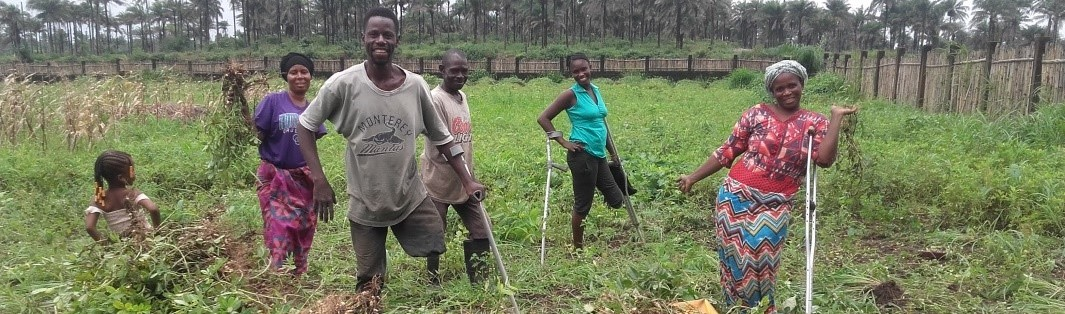
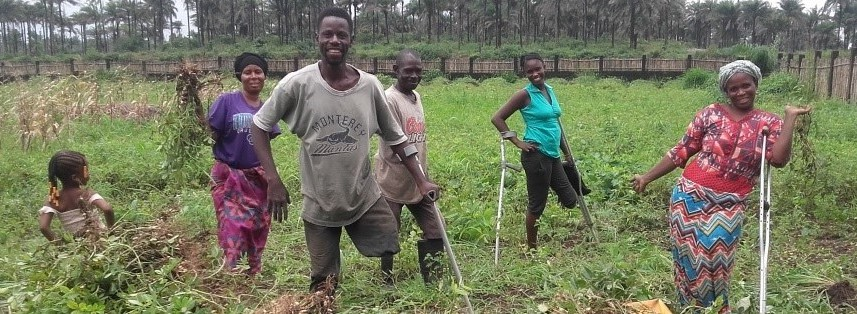
checkpoint

diff --git a/_pages/principles.html b/_pages/principles.html
@@ -8,10 +8,13 @@ top-img: /assets/images/top.jpg
 <div class="chapters">
 	<div class="sections">
 		<div class="title">
-		
+
 		</div>
 		<div class="section-paragraph">
-			Farming on Crutches seeks to farm in tune with nature, without chemicals and as far as possible without debt - based on the principles of agro-ecology and permaculture.  The compelling benefits from training and supporting the changemakers in these practices focused on community localization and revitalization are that;
+			Farming on Crutches seeks to farm in tune with nature, without chemicals and as far as possible without debt
+			- based on the principles of agro-ecology and permaculture. The compelling benefits from training and
+			supporting the changemakers in these practices focused on community localization and revitalization are
+			that;
 			<ul>
 				<li>It enhances food security and human health whilst reducing financial risks</li>
 				<li>It eliminates the need for synthetic fertilisers and plant protection chemicals</li>
@@ -32,7 +35,8 @@ top-img: /assets/images/top.jpg
 			<img src="/assets/images/permaculture.jpg" width="100%" height="100%">
 		</div>
 		<div class="section-paragraph">
-			The principles underlying Farming on Crutches are the same as those espoused by <a href="https://ari.ac.jp/en/curriculum/">ARI</a> – namely to build an
+			The principles underlying Farming on Crutches are the same as those espoused by <a
+				href="https://ari.ac.jp/en/curriculum/">ARI</a> – namely to build an
 			environmentally
 			healthy, just and peaceful world. ARI’s concept of Foodlife enlightens participants’ understanding of
 			Sustainable
@@ -90,7 +94,8 @@ top-img: /assets/images/top.jpg
 			effective
 			source of nutrients and soil improvement. To learn more about the making of Bokashi, both on our farm and on
 			other farms
-			around the world, watch <a href="https://www.youtube.com/watch?v=q0KfmE4vBsA">this webinar</a> in which Mambud is the second speaker. (More to be added from Mambud
+			around the world, watch <a href="https://www.youtube.com/watch?v=q0KfmE4vBsA">this webinar</a> in which
+			Mambud is the second speaker. (More to be added from Mambud
 			about this and
 			the general farming system).
 		</div>
@@ -105,7 +110,8 @@ top-img: /assets/images/top.jpg
 			plants,
 			animals, people and their environment – and the balance between these relationships. It is the application
 			of ecological
-			concepts and principles in farming and is defined by the <a href="https://www.fao.org/agroecology/home/en/">FAO</a> as a holistic and integrated approach that
+			concepts and principles in farming and is defined by the <a
+				href="https://www.fao.org/agroecology/home/en/">FAO</a> as a holistic and integrated approach that
 			simultaneously
 			applies ecological and social concepts and principles to the design and management of sustainable
 			agriculture and food
@@ -130,76 +136,82 @@ top-img: /assets/images/top.jpg
 		<div class="title" style="color:black;">
 			Delivering on the Sustainable Development Goals
 		</div>
-			<div>
-				<div class="goalcontainer">
-					<img src="/assets/images/goals/goal1.png" alt="NO POVERTY">
-					<p>The absolute focus is on building the capacity for sustainable self-sufficiency from the land.</p>
-				</div>
-				<div class="goalcontainer">
-					<img src="/assets/images/goals/goal2.png" alt="ZERO HUNGER">
-					<p>As for (1) above.</p>
-				</div>
-				<div class="goalcontainer">
-					<img src="/assets/images/goals/goal3.png" alt="Good health and wellbeing">
-					<p>The course includes nutrition, physical exercise and there are moves to help with prosthetic limbs.</p>
-				</div>
-				<div class="goalcontainer">
-					<img src="/assets/images/goals/goal4.png" alt="Quality education">
-					<p>The course addresses the basic principles of agroecology and farming with nature.</p>
-				</div>
-				<div class="goalcontainer">
-					<img src="/assets/images/goals/goal5.png" alt="Gender equality">
-					<p>The course is open to both men and women.</p>
-				</div>
-				<div class="goalcontainer">
-					<img src="/assets/images/goals/goal6.png" alt="Clean water and sanitation">
-					<p>The farm training centre has a well with clean water as well as private toilets.</p>
-				</div>
-				<div class="goalcontainer">
-					<img src="/assets/images/goals/goal7.png" alt="Affordable and clean energy">
-					<p>The centre has solar panels to provide lighting and the pumping of water to tanks for trickle irrigation.</p>
-				</div>
-				<div class="goalcontainer">
-					<img src="/assets/images/goals/goal8.png" alt="Decent work and economic growth">
-					<p>The trainees leave the course with the tools and seeds needed to start farming on their own.</p>
-				</div>
-				<div class="goalcontainer">
-					<img src="/assets/images/goals/goal9.png" alt="Industry and innovation infrastructure">
-					<p>Not really applicable but also as (8) above.</p>
-				</div>
-				<div class="goalcontainer">
-					<img src="/assets/images/goals/goal10.png" alt="Reduced inequality">
-					<p>The course provides the opportunity for otherwise marginalised people to participate as equals.</p>
-				</div>
-				<div class="goalcontainer">
-					<img src="/assets/images/goals/goal11.png" alt="Sustainable cities and communities">
-					<p>Contributes directly to the building of sustainable rural communities.</p>
-				</div>
-				<div class="goalcontainer">
-					<img src="/assets/images/goals/goal12.png" alt="Responsible consumption &amp; production">
-					<p>Participants leave with the capacity to farm sustainability and with little need for any external inputs.</p>
-				</div>
-				<div class="goalcontainer">
-					<img src="/assets/images/goals/goal13.png" alt="Climate action">
-					<p>There is a strong focus on working with nature, on not using chemicals and on nurturing biodiversity.</p>
-				</div>
-				<div class="goalcontainer">
-					<img src="/assets/images/goals/goal14.png" alt="Life below water">
-					<p>Not applicable here.</p>
-				</div>
-				<div class="goalcontainer">
-					<img src="/assets/images/goals/goal15.png" alt="Life on land/ecosystems">
-					<p>A total focus on working with nature, the making of Bokashi and the sustaining of ecosystems.</p>
-				</div>
-				<div class="goalcontainer">
-					<img src="/assets/images/goals/goal16.png" alt="Peace, justice and strong institutions">
-					<p>Working with nature is a vital element of building peace and before all elections the amputees
-						actively promote peace – through their physical disability reminding others of the horrors of war.</p>
-				</div>
-				<div class="goalcontainer">
-					<img src="/assets/images/goals/goal17.png" alt="Partnerships for the goals">
-					<p>Farming on Crutches is building partnerships with a number of organisations that share its vision.</p>
-				</div>
+		<div class="goals">
+			<div class="goalcontainer">
+				<img src="/assets/images/goals/goal1.png" alt="NO POVERTY">
+				<p>The absolute focus is on building the capacity for sustainable self-sufficiency from the land.</p>
 			</div>
+			<div class="goalcontainer">
+				<img src="/assets/images/goals/goal2.png" alt="ZERO HUNGER">
+				<p>As for (1) above.</p>
+			</div>
+			<div class="goalcontainer">
+				<img src="/assets/images/goals/goal3.png" alt="Good health and wellbeing">
+				<p>The course includes nutrition, physical exercise and there are moves to help with prosthetic limbs.
+				</p>
+			</div>
+			<div class="goalcontainer">
+				<img src="/assets/images/goals/goal4.png" alt="Quality education">
+				<p>The course addresses the basic principles of agroecology and farming with nature.</p>
+			</div>
+			<div class="goalcontainer">
+				<img src="/assets/images/goals/goal5.png" alt="Gender equality">
+				<p>The course is open to both men and women.</p>
+			</div>
+			<div class="goalcontainer">
+				<img src="/assets/images/goals/goal6.png" alt="Clean water and sanitation">
+				<p>The farm training centre has a well with clean water as well as private toilets.</p>
+			</div>
+			<div class="goalcontainer">
+				<img src="/assets/images/goals/goal7.png" alt="Affordable and clean energy">
+				<p>The centre has solar panels to provide lighting and the pumping of water to tanks for trickle
+					irrigation.</p>
+			</div>
+			<div class="goalcontainer">
+				<img src="/assets/images/goals/goal8.png" alt="Decent work and economic growth">
+				<p>The trainees leave the course with the tools and seeds needed to start farming on their own.</p>
+			</div>
+			<div class="goalcontainer">
+				<img src="/assets/images/goals/goal9.png" alt="Industry and innovation infrastructure">
+				<p>Not really applicable but also as (8) above.</p>
+			</div>
+			<div class="goalcontainer">
+				<img src="/assets/images/goals/goal10.png" alt="Reduced inequality">
+				<p>The course provides the opportunity for otherwise marginalised people to participate as equals.</p>
+			</div>
+			<div class="goalcontainer">
+				<img src="/assets/images/goals/goal11.png" alt="Sustainable cities and communities">
+				<p>Contributes directly to the building of sustainable rural communities.</p>
+			</div>
+			<div class="goalcontainer">
+				<img src="/assets/images/goals/goal12.png" alt="Responsible consumption &amp; production">
+				<p>Participants leave with the capacity to farm sustainability and with little need for any external
+					inputs.</p>
+			</div>
+			<div class="goalcontainer">
+				<img src="/assets/images/goals/goal13.png" alt="Climate action">
+				<p>There is a strong focus on working with nature, on not using chemicals and on nurturing biodiversity.
+				</p>
+			</div>
+			<div class="goalcontainer">
+				<img src="/assets/images/goals/goal14.png" alt="Life below water">
+				<p>Not applicable here.</p>
+			</div>
+			<div class="goalcontainer">
+				<img src="/assets/images/goals/goal15.png" alt="Life on land/ecosystems">
+				<p>A total focus on working with nature, the making of Bokashi and the sustaining of ecosystems.</p>
+			</div>
+			<div class="goalcontainer">
+				<img src="/assets/images/goals/goal16.png" alt="Peace, justice and strong institutions">
+				<p>Working with nature is a vital element of building peace and before all elections the amputees
+					actively promote peace – through their physical disability reminding others of the horrors of war.
+				</p>
+			</div>
+			<div class="goalcontainer">
+				<img src="/assets/images/goals/goal17.png" alt="Partnerships for the goals">
+				<p>Farming on Crutches is building partnerships with a number of organisations that share its vision.
+				</p>
+			</div>
+		</div>
 	</div>
 </div>

diff --git a/assets/css/main.css b/assets/css/main.css
@@ -182,7 +182,7 @@ h3:before {
 	color: #fff
 }
 
-@media(max-width: 767px) {
+@media(max-width: 812px) {
 	.navbar-default .navbar-nav .open .dropdown-menu>li>a {
 		color: #fff
 	}
@@ -229,30 +229,52 @@ h3:before {
 	transform: translateY(-50%)
 }
 
-.header-img-container {
+.header-img-box {
 	position: relative;
-	width: 100vw
+	width: 100vw;
+	display: flex;
 }
 
-.header-img-container .text {
-	position: absolute;
-	top: 50%;
-	left: 50%;
-	transform: translate(-50%, -50%);
-	font-size: 6em;
+.header-img-container {
+	width: 100%;
+	display: flex;
+	flex-direction: row;
+	padding-top: 10vh;
+	/* padding-bottom: 3vw; */
+	padding-right: 5vw;
+	padding-left: 5vw;
+	justify-content: space-between;
+	align-items: center;
+}
+
+.header-img-box .header-img-container .text {
+	/* position: absolute; */
+	/* top: 50%; */
+	/* left: 50%; */
+	/* transform: translate(-50%, -50%); */
+	width: 40%;
+	font-size: 5vw;
 	text-align: center;
 	text-transform: uppercase;
-	letter-spacing: .2em;
+	letter-spacing: .05em;
 	line-height: 1.5em;
-	color: #fff;
-	font-family: "ClashGrotesk-Bold"
+	color: black;
+	font-family: "ClashGrotesk-Bold";
+	text-align: start;
+	background: linear-gradient(to right, #72C0A7, #41C7F0);
+	/* Define your gradient colors */
+	-webkit-background-clip: text;
+	/* For Safari and older Chrome versions */
+	background-clip: text;
+	-webkit-text-fill-color: transparent;
+	/* Make the text transparent */
+	text-fill-color: transparent;
 }
 
 .header-img {
-	width: 110%;
+	border-radius: 2em;
+	width: 60%;
 	filter: blur(0px);
-	transform: translateX(-5vw);
-	transform: translateY(3.5vw)
 }
 
 .chapters {
@@ -416,7 +438,7 @@ div.chapters>div:nth-of-type(even) .title {
 	justify-content: center
 }
 
-@media(max-width: 767px) {
+@media(max-width: 812px) {
 	.donation-cards-row {
 		flex-direction: column
 	}
@@ -593,21 +615,11 @@ div.chapters>div:nth-of-type(even) .title {
 	background-size: cover
 }
 
-.module-border-wrap {
-	max-width: 250px;
-	padding: 1rem;
-	position: relative;
-	background: linear-gradient(to right, red, purple);
-	padding: 3px;
+.goals {
+	width: 85%;
 }
 
-.module {
-	background: #222;
-	color: white;
-	padding: 2rem;
-}
-
-@media(min-width: 767px) {
+@media(min-width: 812px) {
 	div.sections>div:nth-of-type(even) {
 		flex-direction: row-reverse
 	}
@@ -618,16 +630,39 @@ div.chapters>div:nth-of-type(even) .title {
 	}
 }
 
-@media(max-width: 767px) {
-	.header-img-container {
+@media(max-width: 812px) {
+	.header-img {
 		display: none;
 		visibility: hidden;
+	}
+
+	.header-img-box .header-img-container .text {
+		width: 100%;
+		text-align: center;
+		line-height: normal;
+		font-size: 4em;
+	}
+
+	.header-img-box {
+		padding-top: 10vh;
+	}
+
+	.goalcontainer img {
+		margin-right: 20px;
+	}
+
+	.goalcontainer p {
+		font-size: 1.75em;
+		width: 100%;
+		font-family: "ClashGrotesk-Medium";
 	}
 
 	.sections {
 		width: 100vw;
 		border-radius: 0;
 		font-size: 0.8em;
+		padding-top: 3vh;
+		padding-bottom: 3vh;
 	}
 
 	.sections .title {

diff --git a/_includes/header.html b/_includes/header.html
@@ -2,13 +2,16 @@
 	{% include navbar.html %}
 	{% if page.noimage %}
 	{% else %}
-	<div class="header-img-container">
-		<img alt="{{ page.title }}" src="{{ page.top-img }}" class="header-img">
-		{% endif %}
-		<div class="text">
-			{{ page.title }}
+	<div class="header-img-box">
+		<div class="header-img-container">
+			{% endif %}
+			<div class="text">
+				{{ page.title }}
+			</div>
+			<img alt="{{ page.title }}" src="{{ page.top-img }}" class="header-img">
 		</div>
 	</div>
+
 
 
 	<!-- <div class=" jumbotron clearfix">

diff --git a/_pages/donate.html b/_pages/donate.html
@@ -1,6 +1,6 @@
 ---
 layout: custom
-title: How you can help
+title: Donate
 permalink: /donate
 top-img: /assets/images/top.jpg
 ---
